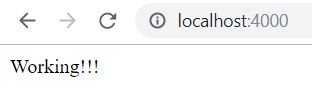
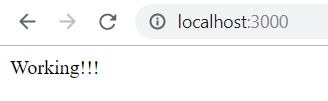
README

diff --git a/README.md b/README.md
@@ -2,7 +2,7 @@
 
 # NodeJS-Heroku
 
-Uploading a simple NodeJS web API to Heroku
+Upload a simple NodeJS web API to Heroku without using Docker.
 
 ## Technologies
 
@@ -17,7 +17,7 @@ Uploading a simple NodeJS web API to Heroku
 ### NodeJS
 
 Create a new folder in your PC to contain your NodeJS web API.  
-Create a _package.json_ file by running this command in a terminal:
+By running this command in a terminal, create a _package.json_ file:
 
 ```console
 npm init
@@ -62,12 +62,6 @@ app.get('/', (req, res) => res.send('Working!!!'));
 app.listen(process.env.PORT || 3000, function() {
 	console.log('server running on port 3000', '');
 });
-```
-
-Create the _.env_ file with this line to set the application port:
-
-```
-PORT = 8081
 ```
 
 Run the web API with the following command:
@@ -131,10 +125,10 @@ heroku create
 
 Now, run the commands below to commit your web API to Heroku's new project:
 
-```
-git add *
-git commit -m "First commit"
-git push heroku master
+```console
+git add *;
+git commit -m "First commit";
+git push heroku master;
 ```
 
 The console will shown the upload progress like this:
